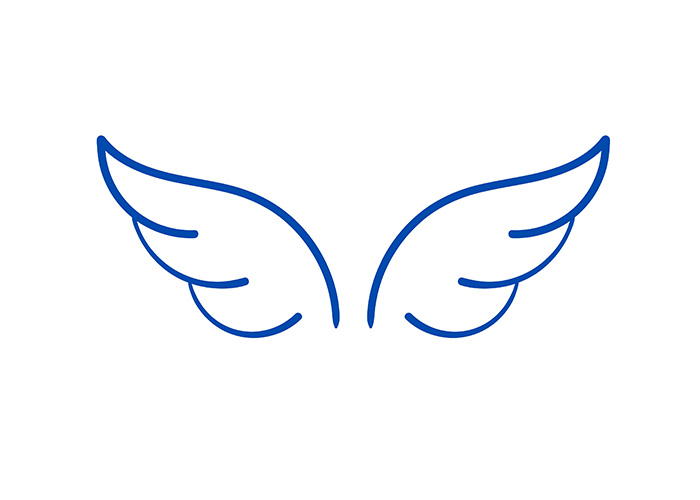
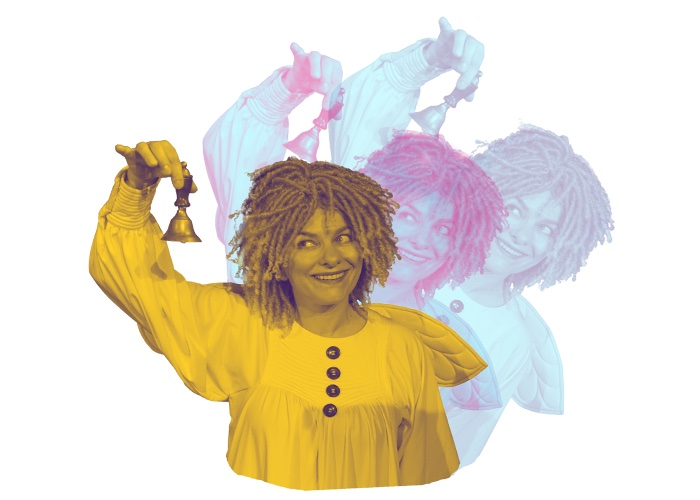
Add Christmas show and gallery assets

diff --git a/output/graficke-podklady-pro-web-email.html b/output/graficke-podklady-pro-web-email.html
@@ -1,0 +1,115 @@
+<!doctype html>
+<html lang="cs">
+  <head>
+    <meta charset="utf-8" />
+    <meta name="viewport" content="width=device-width, initial-scale=1" />
+    <title>Grafické podklady pro web Divadla Láryfáry</title>
+  </head>
+  <body style="margin:0;background:#f3f6fa;color:#222;font-family:Arial,Helvetica,sans-serif;line-height:1.5">
+    <div style="max-width:760px;margin:0 auto;background:#fff;padding:36px 42px">
+      <h1 style="margin:0 0 12px;color:#164fa3;font-size:30px;line-height:1.2">Grafické podklady pro web</h1>
+      <p style="margin:0 0 28px">Požadavky na přípravu obrazových podkladů pro novou pohádku a případnou novou besedu na webu Divadla Láryfáry.</p>
+
+      <h2 style="color:#164fa3;font-size:22px;margin:28px 0 12px">1. Podklady pro novou pohádku</h2>
+      <table style="width:100%;border-collapse:collapse;margin:0 0 18px">
+        <tr style="background:#164fa3;color:#fff"><th style="border:1px solid #ccd7e6;padding:8px;text-align:left">Počet</th><th style="border:1px solid #ccd7e6;padding:8px;text-align:left">Typ obrázku</th><th style="border:1px solid #ccd7e6;padding:8px;text-align:left">Výsledný rozměr</th></tr>
+        <tr><td style="border:1px solid #ccd7e6;padding:8px">1</td><td style="border:1px solid #ccd7e6;padding:8px">Hlavní fotografie pohádky</td><td style="border:1px solid #ccd7e6;padding:8px">700 × 500 px</td></tr>
+        <tr style="background:#f7f9fc"><td style="border:1px solid #ccd7e6;padding:8px">10</td><td style="border:1px solid #ccd7e6;padding:8px">Fotografie z představení</td><td style="border:1px solid #ccd7e6;padding:8px">650 × 433 px</td></tr>
+        <tr><td style="border:1px solid #ccd7e6;padding:8px">1</td><td style="border:1px solid #ccd7e6;padding:8px">Obrazový výřez u citátu (quote)</td><td style="border:1px solid #ccd7e6;padding:8px">Plátno přibližně 680 × 490 px</td></tr>
+        <tr style="background:#f7f9fc"><td style="border:1px solid #ccd7e6;padding:8px">1</td><td style="border:1px solid #ccd7e6;padding:8px">Postava v patičce (footer character)</td><td style="border:1px solid #ccd7e6;padding:8px">Maximálně 700 × 900 px</td></tr>
+      </table>
+      <p style="background:#fff4cc;border:1px solid #f5c542;padding:11px 13px"><strong>Celkem se pro jednu pohádku zpravidla odevzdává 13 hotových obrázků.</strong></p>
+
+      <h3 style="font-size:18px;margin:24px 0 8px">Pořadí fotografií</h3>
+      <ul style="padding-left:22px">
+        <li>Fotografie 01–04 se zobrazí na detailu pohádky.</li>
+        <li>Fotografie 05–06 budou první viditelné fotografie v galerii.</li>
+        <li>Fotografie 07–10 se zobrazí po rozbalení dalších fotografií.</li>
+      </ul>
+
+      <h2 style="color:#164fa3;font-size:22px;margin:28px 0 12px">2. Technické požadavky</h2>
+      <h3 style="font-size:18px;margin:18px 0 8px">Běžné fotografie</h3>
+      <ul style="padding-left:22px">
+        <li>Formát JPG, barevný prostor sRGB.</li>
+        <li>Kvalita exportu přibližně 80–85 %, bez nepotřebných metadat.</li>
+        <li>Fotografie z představení: poměr 3:2, výsledný rozměr 650 × 433 px.</li>
+        <li>Hlavní fotografie: poměr 7:5, výsledný rozměr 700 × 500 px.</li>
+        <li>Obraz nedeformovat. Nejprve kompozičně oříznout a potom zmenšit.</li>
+        <li>DPI není pro web rozhodující; podstatný je počet pixelů.</li>
+      </ul>
+      <h3 style="font-size:18px;margin:18px 0 8px">Výřezy postav</h3>
+      <ul style="padding-left:22px">
+        <li>Formát PNG-24 s průhledným pozadím.</li>
+        <li>Bez bílého obdélníku, zbytků pozadí, bílé kontury a roztřepených hran.</li>
+        <li>PNG po exportu optimalizovat bez poškození průhlednosti.</li>
+      </ul>
+
+      <h2 style="color:#164fa3;font-size:22px;margin:28px 0 12px">3. Doporučená datová velikost</h2>
+      <table style="width:100%;border-collapse:collapse;margin:0 0 18px">
+        <tr style="background:#164fa3;color:#fff"><th style="border:1px solid #ccd7e6;padding:8px;text-align:left">Typ</th><th style="border:1px solid #ccd7e6;padding:8px;text-align:left">Běžná velikost</th><th style="border:1px solid #ccd7e6;padding:8px;text-align:left">Příklady z webu</th></tr>
+        <tr><td style="border:1px solid #ccd7e6;padding:8px">Hlavní fotografie 700 × 500 px</td><td style="border:1px solid #ccd7e6;padding:8px">40–70 kB</td><td style="border:1px solid #ccd7e6;padding:8px">44, 54, 69 kB</td></tr>
+        <tr style="background:#f7f9fc"><td style="border:1px solid #ccd7e6;padding:8px">Fotografie 650 × 433 px</td><td style="border:1px solid #ccd7e6;padding:8px">60–80 kB</td><td style="border:1px solid #ccd7e6;padding:8px">63, 66, 67 kB</td></tr>
+        <tr><td style="border:1px solid #ccd7e6;padding:8px">Quote kolem 680 × 490 px</td><td style="border:1px solid #ccd7e6;padding:8px">70–100 kB</td><td style="border:1px solid #ccd7e6;padding:8px">73, 75 kB</td></tr>
+        <tr style="background:#f7f9fc"><td style="border:1px solid #ccd7e6;padding:8px">Postava, výška do 900 px</td><td style="border:1px solid #ccd7e6;padding:8px">75–150 kB</td><td style="border:1px solid #ccd7e6;padding:8px">76, 95 kB</td></tr>
+      </table>
+      <p style="background:#fff4cc;border:1px solid #f5c542;padding:11px 13px">U průhledného PNG může být soubor větší než JPG. Doporučený cíl je <strong>do 300 kB</strong>, výjimečně do 500 kB, pokud by silnější komprese viditelně poškodila obraz.</p>
+      <p>Jednotlivé fotografie nemají mít několik megabajtů. Zdrojové fotografie v plném rozlišení se do webového repozitáře neodevzdávají.</p>
+
+      <h2 style="color:#164fa3;font-size:22px;margin:28px 0 12px">4. Pojmenování souborů</h2>
+      <ul style="padding-left:22px">
+        <li>Bez mezer a bez české diakritiky.</li>
+        <li>Pouze malá písmena.</li>
+        <li>Slova oddělená pomlčkou.</li>
+        <li>Pořadová čísla vždy dvouciferně: 01 až 10.</li>
+      </ul>
+      <p style="background:#fff4cc;border:1px solid #f5c542;padding:11px 13px"><strong>Jak andělíček zachránil Vánoce</strong> → <strong>jak-andelicek-zachranil-vanoce</strong></p>
+      <div style="background:#eaf2fc;border:1px solid #ccd7e6;padding:12px 14px;font-family:Consolas,Monaco,monospace;font-size:13px;overflow-wrap:anywhere">
+        repertoar-jak-andelicek-zachranil-vanoce.jpg<br />
+        pohadka-jak-andelicek-zachranil-vanoce-01.jpg<br />
+        pohadka-jak-andelicek-zachranil-vanoce-02.jpg<br />
+        …<br />
+        pohadka-jak-andelicek-zachranil-vanoce-10.jpg<br />
+        jak-andelicek-zachranil-vanoce-quote.png<br />
+        jak-andelicek-zachranil-vanoce-footer-character.png
+      </div>
+
+      <h2 style="color:#164fa3;font-size:22px;margin:28px 0 12px">5. Umístění výřezů a volné okraje</h2>
+      <p>Před přípravou musí být určeno, zda bude postava na webu umístěna vlevo, nebo vpravo.</p>
+      <h3 style="font-size:18px;margin:18px 0 8px">Umístění vlevo</h3>
+      <ul style="padding-left:22px"><li>Výřez musí opticky vyrůstat z levého dolního rohu.</li><li>Vlevo a dole nesmí zůstat bílá ani zbytečná průhledná mezera.</li><li>Volný prostor se ponechává především směrem doprava, dovnitř stránky.</li></ul>
+      <h3 style="font-size:18px;margin:18px 0 8px">Umístění vpravo</h3>
+      <ul style="padding-left:22px"><li>Výřez musí opticky vyrůstat z pravého dolního rohu.</li><li>Vpravo a dole nesmí zůstat bílá ani zbytečná průhledná mezera.</li><li>Volný prostor se ponechává především směrem doleva, dovnitř stránky.</li></ul>
+      <p style="background:#fff4cc;border:1px solid #f5c542;padding:11px 13px"><strong>Příklad:</strong> U pohádky Jak andělíček zachránil Vánoce jsou quote i footer character umístěné vlevo. Oba podklady proto musí být dotažené k levému a dolnímu okraji. Vlevo ani dole nesmí zůstat bílá či zbytečná průhledná mezera.</p>
+
+      <h2 style="color:#164fa3;font-size:22px;margin:28px 0 12px">6. Koláž k nové besedě</h2>
+      <table style="width:100%;border-collapse:collapse;margin:0 0 18px">
+        <tr style="background:#164fa3;color:#fff"><th style="border:1px solid #ccd7e6;padding:8px;text-align:left">Počet</th><th style="border:1px solid #ccd7e6;padding:8px;text-align:left">Typ obrázku</th><th style="border:1px solid #ccd7e6;padding:8px;text-align:left">Rozměr</th><th style="border:1px solid #ccd7e6;padding:8px;text-align:left">Formát</th></tr>
+        <tr><td style="border:1px solid #ccd7e6;padding:8px">1</td><td style="border:1px solid #ccd7e6;padding:8px">Fotografie nebo koláž k besedě</td><td style="border:1px solid #ccd7e6;padding:8px">500 × 810 px</td><td style="border:1px solid #ccd7e6;padding:8px">JPG</td></tr>
+      </table>
+      <ul style="padding-left:22px">
+        <li>Výsledný poměr stran je 50:81, tedy svislý formát.</li>
+        <li>Barevný prostor sRGB, kvalita JPG přibližně 80–85 %.</li>
+        <li>Doporučená datová velikost 100–200 kB, maximálně přibližně 300 kB.</li>
+        <li>Všechny důležité části koláže, obličeje a texty musí zůstat čitelné i po zmenšení.</li>
+        <li>Odstranit velké prázdné bílé okraje.</li>
+        <li>Důležité prvky neumísťovat těsně k hraně; ponechat přiměřenou bezpečnou zónu.</li>
+        <li>Obraz nedeformovat. Použít kompoziční ořez nebo upravit rozložení koláže.</li>
+        <li>Nepoužívat velmi malé texty, které by na webu nebyly čitelné.</li>
+      </ul>
+      <p style="background:#fff4cc;border:1px solid #f5c542;padding:11px 13px"><strong>Příklad názvu:</strong> Barvy nejen chameleona → <strong>beseda-barvy-nejen-chameleona.jpg</strong><br />Obecný vzor: <strong>beseda-nazev-besedy.jpg</strong></p>
+
+      <h2 style="color:#164fa3;font-size:22px;margin:28px 0 12px">7. Kontrola před odevzdáním</h2>
+      <ul style="list-style:none;padding-left:0">
+        <li>☐ Hlavní obrázek má 700 × 500 px.</li>
+        <li>☐ Je připraveno přesně deset fotografií 650 × 433 px.</li>
+        <li>☐ Fotografie jsou očíslované 01 až 10 ve správném pořadí.</li>
+        <li>☐ Všechny JPG jsou v sRGB a přiměřeně komprimované.</li>
+        <li>☐ Quote a footer character mají průhledné pozadí.</li>
+        <li>☐ Výřezy respektují určenou levou nebo pravou stranu.</li>
+        <li>☐ Názvy neobsahují mezery, diakritiku ani velká písmena.</li>
+        <li>☐ Koláž k besedě má 500 × 810 px a zůstává čitelná.</li>
+        <li>☐ Nejsou přiložené PSD ani původní mnohamegabajtové fotografie.</li>
+      </ul>
+    </div>
+  </body>
+</html>

diff --git a/src/pohadka-jak-andelicek-zachranil-vanoce.html b/src/pohadka-jak-andelicek-zachranil-vanoce.html
@@ -8,6 +8,9 @@ ageFrom: 4
 permalink: "/pohadka-jak-andelicek-zachranil-vanoce.html"
 pageTitle: "Jak andělíček zachránil Vánoce"
 subtitle: "Ne všechny Vánoce jsou dokonalé."
+footerCharacterImage: images/jak-andelicek-zachranil-vanoce-footer-character.png
+footerHeightClass: footer-height-extra-tall
+footerCharacterOrientation: left
 breadcrumbs:
   - title: "Úvod"
     url: "./"
@@ -40,16 +43,20 @@ breadcrumbs:
           <!-- Main Performance Text -->
           <div class="performance-description">
             <p>
-              U Dvořáčků to letos rozhodně slibně nevypadá. Cukroví je spálené, Ježíšek z Betléma se
-              ztratil, doma vládne chaos a o zlatém prasátku si můžou nechat jen zdát. Naštěstí se v
-              tu pravou chvíli objeví Andělíček Zvoníček, který má jediný, ale nesmírně důležitý
-              úkol — zachraňovat Vánoce, když se něco pokazí. Sám to ale nezvládne. Bude potřebovat
-              pomoc dětí, vánoční písničky, zvonečky a trochu opravdového kouzla.
+              U Dvořáčků to letos rozhodně slibně nevypadá. Všude vládne chaos, cukroví je spálené
+              a o zlatém prasátku si můžou nechat jen zdát. A když se z rodinného betléma ztratí
+              malý Ježíšek, je o hádku postaráno.
             </p>
 
             <p>
-              Veselá a dojemná vánoční pohádka připomene malým i velkým, že ty pravé Vánoce nejsou o
-              dokonalosti, ale o radosti, sounáležitosti a společně stráveném čase.
+              Naštěstí se v tu pravou chvíli objeví andělíček, který má jediný, ale nesmírně
+              důležitý úkol — zachraňovat Vánoce všude tam, kde se něco pokazí. Sám to ale
+              nezvládne. Bude potřebovat pomoc dětí a trochu toho opravdového vánočního kouzla.
+            </p>
+
+            <p>
+              Vánoční pohádka, která vám připomene, že pravé Vánoce nejsou o dokonalosti, ale o
+              radosti, sounáležitosti a společně stráveném čase.
             </p>
           </div>
 
@@ -57,7 +64,7 @@ breadcrumbs:
           <div class="mt-5 d-flex">
             <div class="performance-badge badge-yellow p-3 rounded">
               <strong>Délka představení:</strong><br />
-              cca 55 min, bez přestávky
+              cca 50 min, bez přestávky
             </div>
           </div>
         </article>
@@ -73,6 +80,47 @@ breadcrumbs:
             class="img-fluid w-100 rounded"
             loading="eager"
           />
+        </div>
+      </div>
+    </div>
+  </div>
+</section>
+
+<!-- Content Photos -->
+<section class="pb-5">
+  <div class="container content-gutter">
+    <div class="content-photos content-photos-2">
+      <div class="row">
+        {% for photoNumber in [1, 2, 3, 4] %}
+        <div class="col-lg-6 col-md-6">
+          <div class="photo-item">
+            <img
+              src="images/pohadka-jak-andelicek-zachranil-vanoce-0{{ photoNumber }}.jpg"
+              alt="Jak andělíček zachránil Vánoce foto {{ photoNumber }}"
+              class="img-fluid rounded shadow"
+              loading="lazy"
+              decoding="async"
+            />
+          </div>
+        </div>
+        {% endfor %}
+      </div>
+    </div>
+    <div class="text-center mt-2">
+      <a class="btn btn-outline-primary" href="galerie.html#jak-andelicek-zachranil-vanoce">Další fotografie</a>
+    </div>
+  </div>
+</section>
+
+<!-- Quote Section (Motto) -->
+<section class="promote-section-wrapper">
+  <div class="container-fluid p-0">
+    <div class="row g-0">
+      <div class="col-12">
+        <div class="quote-box no-bg">
+          <blockquote class="blockquote text-center mb-0">
+            <p class="mb-0">Nezapomeňte, že anděly můžete potkat i tam, kde byste to vůbec nečekali.</p>
+          </blockquote>
         </div>
       </div>
     </div>
@@ -108,13 +156,47 @@ breadcrumbs:
         <div class="performance-info-circle circle-erben">
           <div class="performance-info-circle-content">
             <h4>Napsaly:</h4>
-            <p>Jarmila Vlčková, Jarmila Vlčková</p>
+            <p>Jarmila Vlčková, Pavlína Jurková</p>
 
             <h5>Hrají:</h5>
             <p>Pavlína Jurková</p>
             <p>Jarmila Vlčková</p>
             <p>Lukáš Jurek</p>
           </div>
+        </div>
+      </div>
+    </div>
+  </div>
+</section>
+
+<!-- Additional Quote Section -->
+<section class="promote-section-wrapper">
+  <div class="container-fluid p-0">
+    <div class="row g-0 align-items-stretch">
+      <div class="col-lg-6 order-lg-1 order-2">
+        <div class="promote-image">
+          <img
+            src="images/jak-andelicek-zachranil-vanoce-quote.png"
+            alt="Divadlo Láryfáry - Jak andělíček zachránil Vánoce"
+            class="img-fluid h-100 w-100"
+            style="object-fit: contain"
+            loading="lazy"
+            decoding="async"
+          />
+        </div>
+      </div>
+      <div class="col-lg-6 order-lg-2 order-1">
+        <div class="promote-content d-flex flex-column h-100">
+          <div class="content-box p-5 flex-grow-1 d-flex flex-column justify-content-center"></div>
+        </div>
+      </div>
+    </div>
+    <div class="row g-0">
+      <div class="col-12">
+        <div class="quote-box">
+          <blockquote class="blockquote text-center mb-0">
+            <p class="mb-0">Vánoční pohádka, ze které se na vás přenese kouzlo a tajemství Vánoc.</p>
+          </blockquote>
         </div>
       </div>
     </div>

diff --git a/src/galerie.html b/src/galerie.html
@@ -30,13 +30,15 @@ footerCharacterOrientation: right
     strašidelném nádraží' }, { slug: 'tri-namornici', title: 'Pohádka o třech námořnících' }, {
     slug: 'kacenka-a-rarasek', title: 'Pohádka o Kačence a Raráškovi' }, { slug:
     'indiani-ze-supliku', title: 'Indiáni ze šuplíku' }, { slug: 'kouzla-a-cary', title: 'Kouzla a
-    čáry tajemné Prahy' }, { slug: 'strakate-bajky', title: 'Strakaté bajky' } ] %} {% set
+    čáry tajemné Prahy' }, { slug: 'strakate-bajky', title: 'Strakaté bajky' }, { slug:
+    'jak-andelicek-zachranil-vanoce', title: 'Jak andělíček zachránil Vánoce' } ] %} {% set
     perfThumbs = { 'ene-bene-erbene': 'images/repertoar-ene-bene.jpg', 'cirkusacka':
     'images/repertoar-cirkusacka.jpg', 'strasidelnem-nadrazi':
     'images/repertoar-strasidelne-nadrazi.jpg', 'tri-namornici': 'images/repertoar-namornici.jpg',
     'kacenka-a-rarasek': 'images/repertoar-o-kacence.jpg', 'indiani-ze-supliku':
     'images/repertoar-indiani.jpg', 'kouzla-a-cary': 'images/repertoar-kouzla.jpg',
-    'strakate-bajky': 'images/repertoar-bajky.jpg' } %} {% for perf in performances %}
+    'strakate-bajky': 'images/repertoar-bajky.jpg', 'jak-andelicek-zachranil-vanoce':
+    'images/repertoar-jak-andelicek-zachranil-vanoce.jpg' } %} {% for perf in performances %}
     <div class="row mb-5" id="{{ perf.slug }}">
       <div
         class="col-12 {% if loop.index % 2 == 0 %}bg-light rounded-3 py-4 px-3 px-md-4{% endif %}"
@@ -77,6 +79,10 @@ footerCharacterOrientation: right
         }, 'strakate-bajky': { preview:
         ['pohadka-strakate-bajky-76.jpg','pohadka-strakate-bajky-71.jpg'], extra:
         ['pohadka-strakate-bajky-78.jpg','pohadka-strakate-bajky-72.jpg','pohadka-strakate-bajky-74.jpg','pohadka-strakate-bajky-80.jpg']
+        }, 'jak-andelicek-zachranil-vanoce': { preview:
+        ['pohadka-jak-andelicek-zachranil-vanoce-05.jpg','pohadka-jak-andelicek-zachranil-vanoce-06.jpg'],
+        extra:
+        ['pohadka-jak-andelicek-zachranil-vanoce-07.jpg','pohadka-jak-andelicek-zachranil-vanoce-08.jpg','pohadka-jak-andelicek-zachranil-vanoce-09.jpg','pohadka-jak-andelicek-zachranil-vanoce-10.jpg']
         } } %} {% set images = galleryImages[perf.slug] %}
 
         <!-- Always visible photos (2) from the galleryImages set -->
